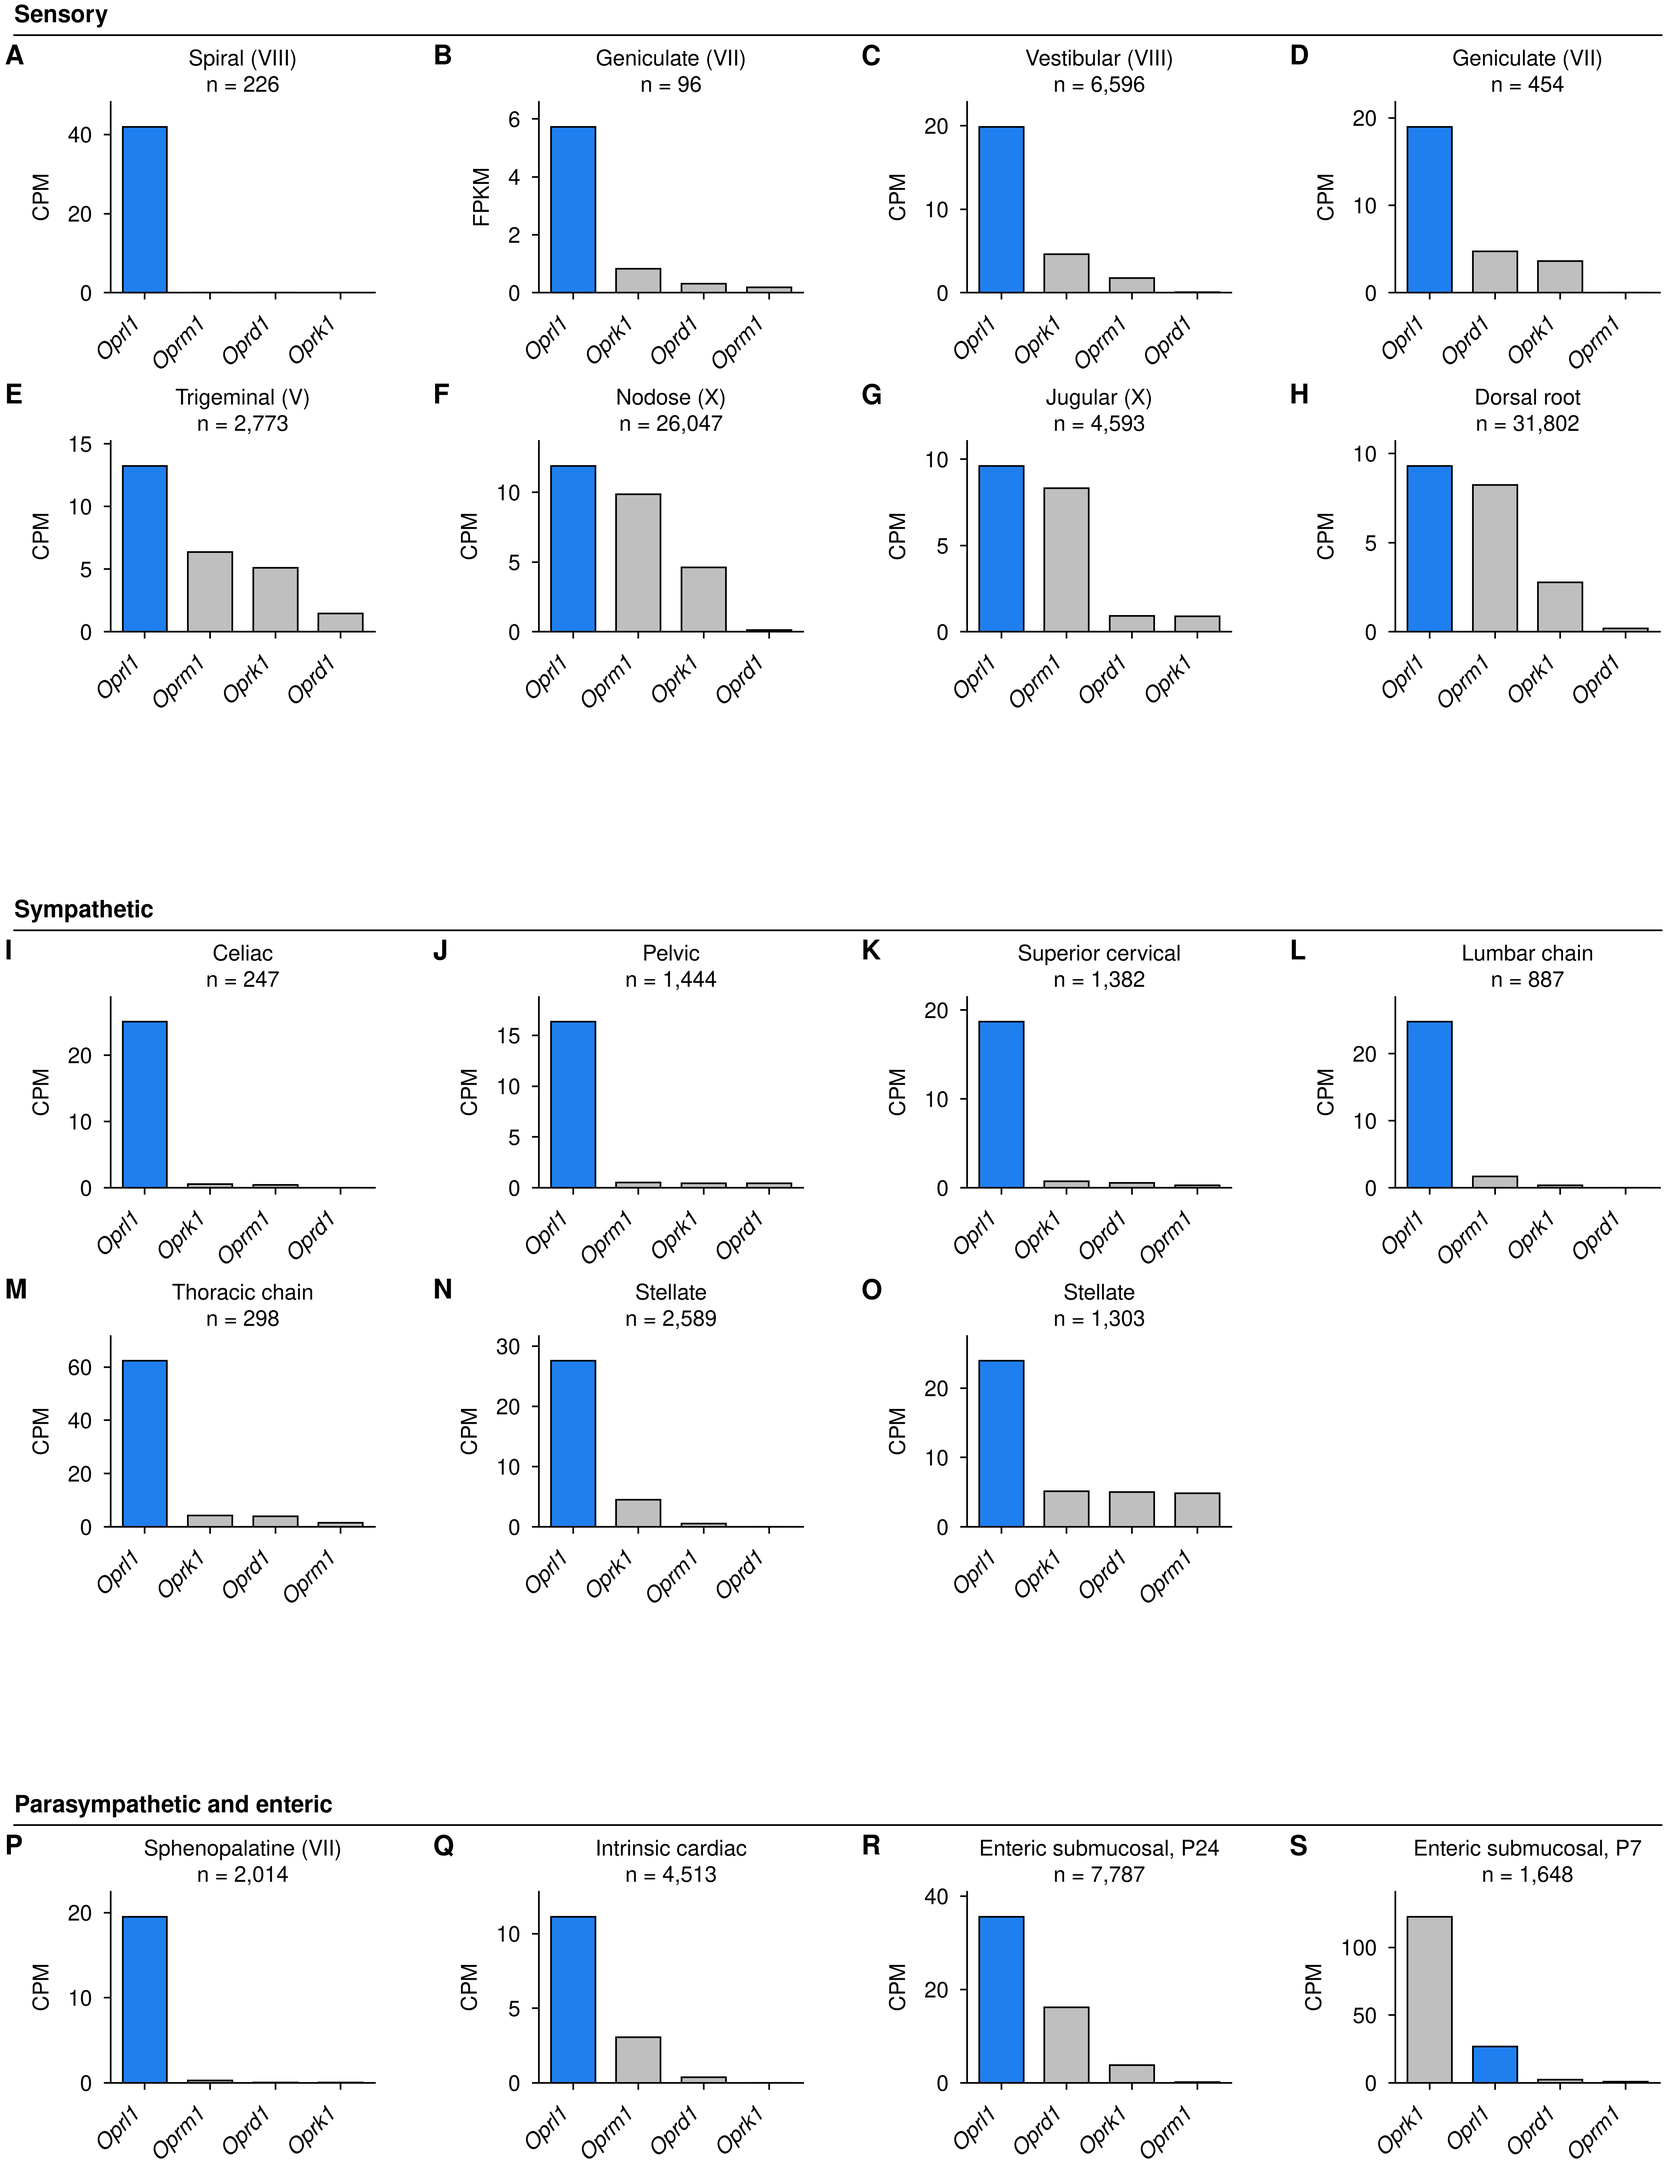
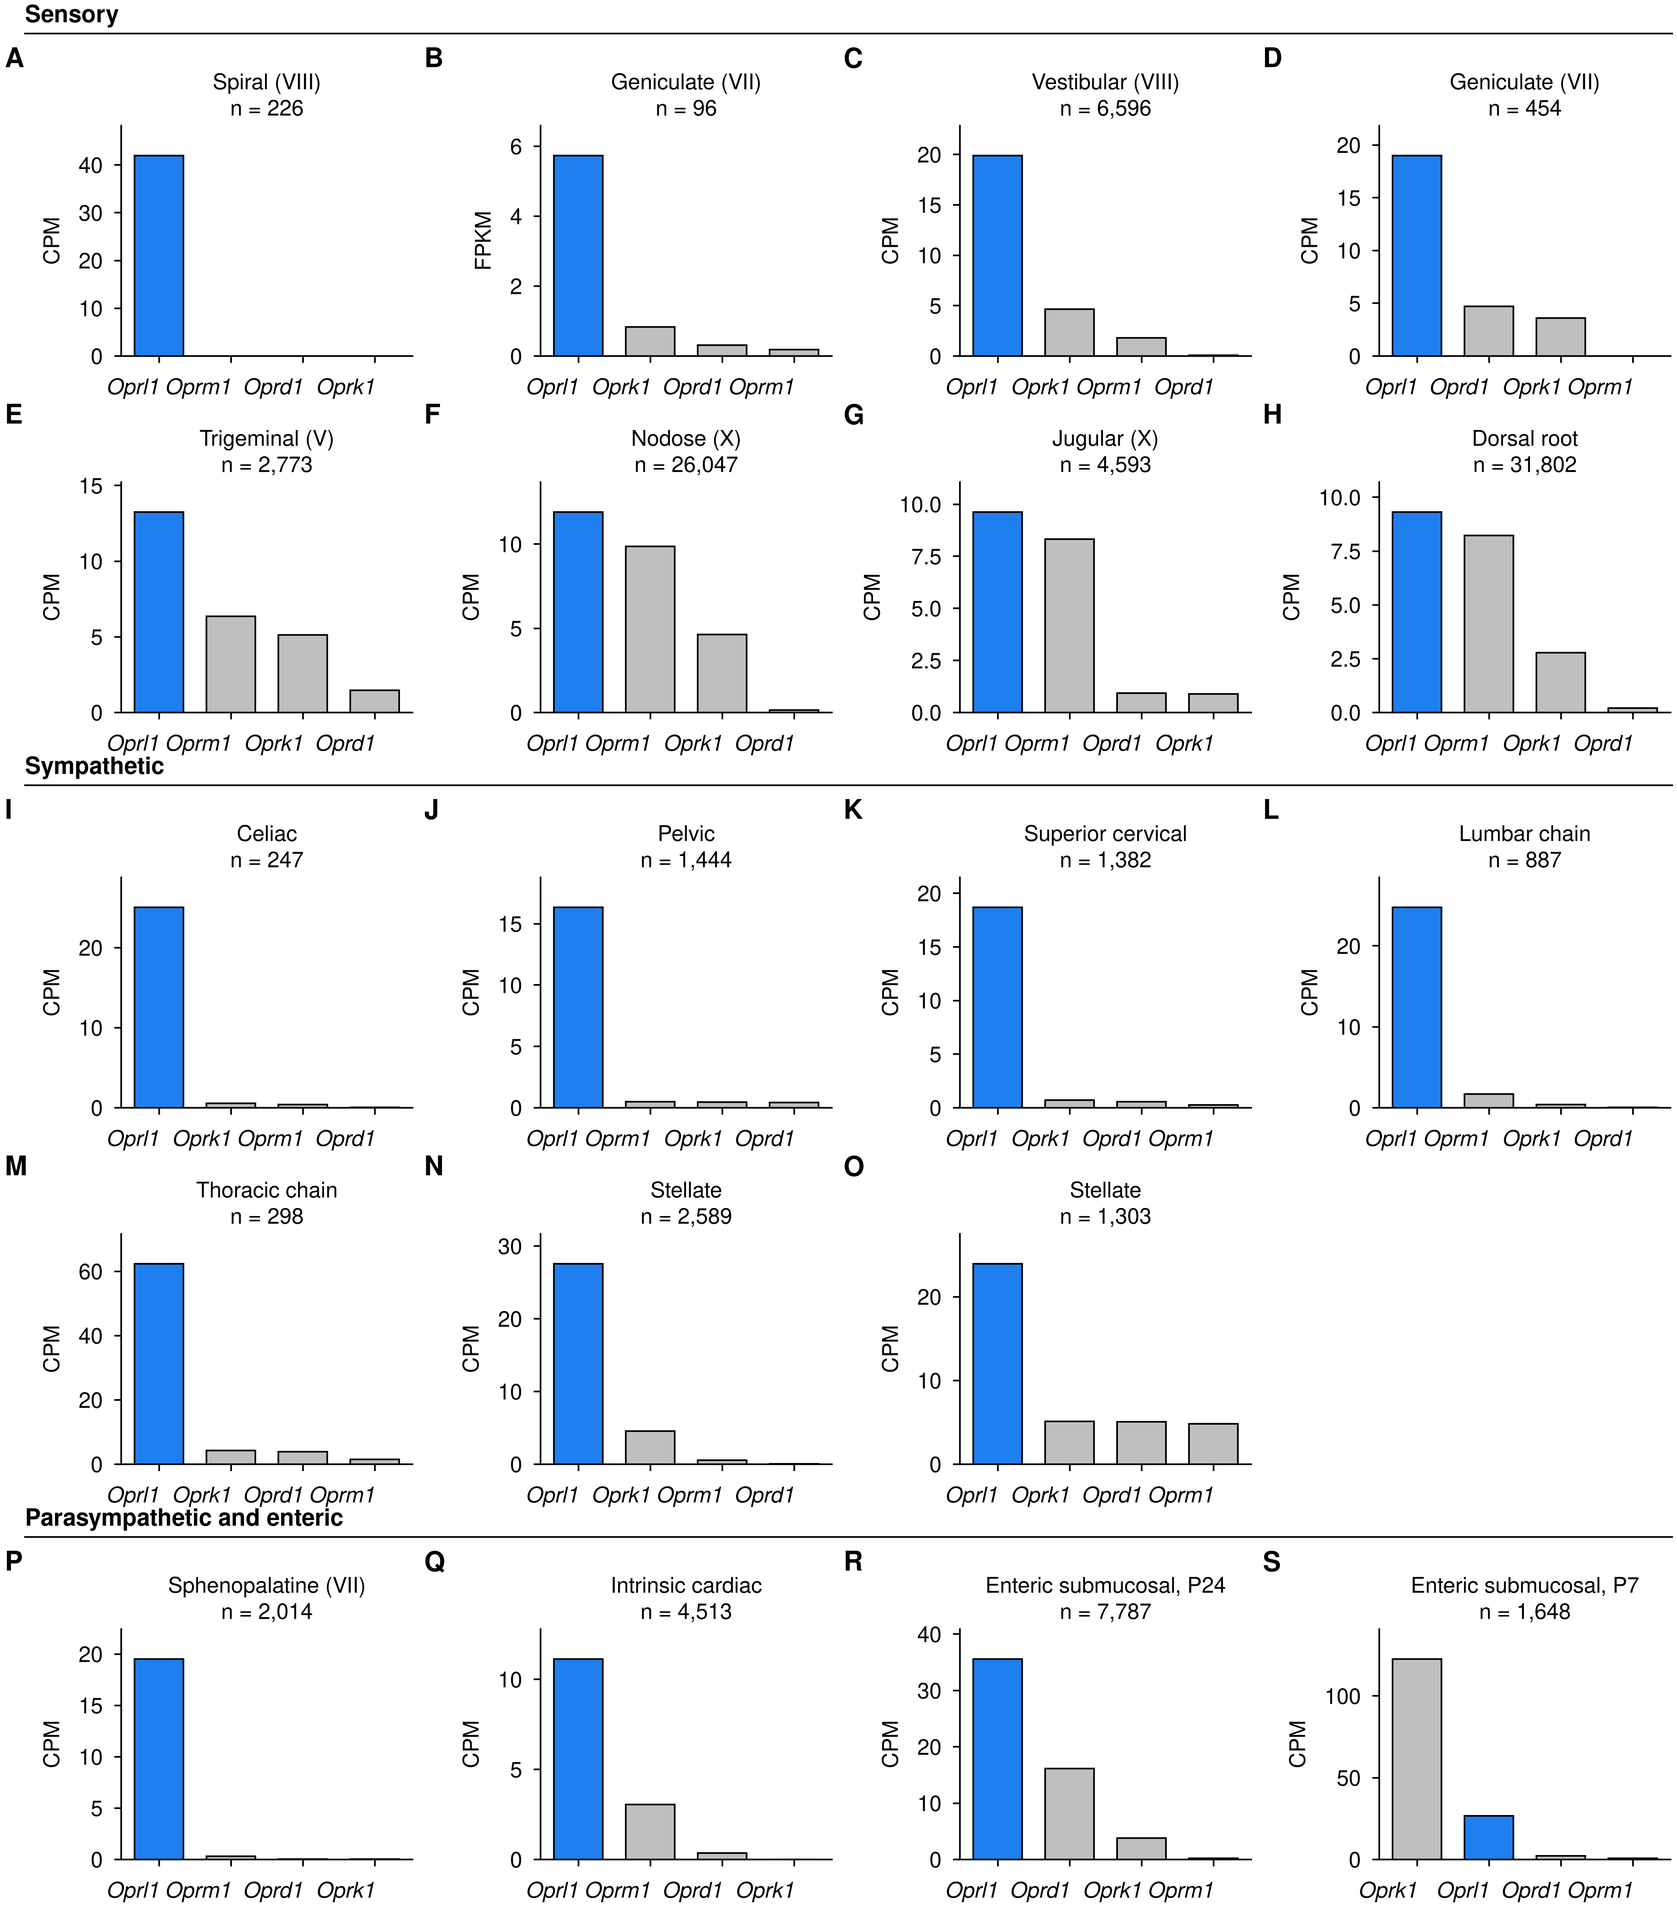
Tighten vertical spacing between divisions in Figure 1
Each division block now gets its own gridspec positioned in inches instead
of sharing one grid with spacer rows. A spacer row cannot produce a small
gap, because hspace applies on both sides of it, so the gap between blocks
was never less than twice the gap between rows.

Gene labels sit horizontally. Rotating them needs about 0.2 inches of
clearance under every row, which over five rows costs more vertical space
than the rotation saves horizontally.

Figure height falls from 227.4 mm to 199.9 mm at the same panel size, well
inside the 235 mm limit.

Claude-Session: https://claude.ai/code/session_011UyYrm5CJgnQP3S4BTTPes

diff --git a/paper/figures.py b/paper/figures.py
@@ -33,28 +33,47 @@ def figure1():
     """The four opioid receptor genes in 19 peripheral neuronal populations."""
     d = pd.read_csv(ac.RES / "receptor_levels_by_ganglion.csv")
     groups = list(dict.fromkeys(d.group))
-    block = {g: int(np.ceil((d.group == g).sum() / NCOL)) for g in groups}
+    rows = {g: int(np.ceil((d.group == g).sum() / NCOL)) for g in groups}
 
-    # A thin empty row between blocks. Without it the division rule lands on the
-    # rotated gene labels of the row above, which hang below their axes.
-    SPACER = 0.36
-    heights, start = [], {}
-    for i, g in enumerate(groups):
-        if i:
-            heights.append(SPACER)
-        start[g] = len(heights)
-        heights += [1.0] * block[g]
+    # Laid out in inches rather than by gridspec spacing. A spacer row cannot
+    # give a small gap between blocks, because hspace applies on both sides of
+    # it, so a block gap is never less than twice a row gap however thin the
+    # spacer is. Each block gets its own gridspec at an explicit position.
+    # Gene labels sit horizontally. Rotating them costs about 0.2 inches of
+    # clearance under every row, which over five rows is more vertical space
+    # than the rotation saves horizontally.
+    PANEL_H = 0.95     # axes height
+    ABOVE = 0.38       # two-line tissue title and the panel letter above it
+    BELOW = 0.14       # one line of gene labels
+    WITHIN = ABOVE + BELOW
+    HEAD = ABOVE       # top of the axes to the rule
+    BETWEEN = BELOW + 0.16 + ABOVE      # the rule and the division name between
+    TOP_PAD = ABOVE + 0.16
+    BOT_PAD = BELOW + 0.04
+
+    n_rows = sum(rows.values())
+    height = (TOP_PAD + BOT_PAD + n_rows * PANEL_H
+              + sum(r - 1 for r in rows.values()) * WITHIN
+              + (len(groups) - 1) * BETWEEN)
 
     st.set_theme()
-    fig = plt.figure(figsize=(st.W_2COL, 1.50 * sum(heights) + 0.30))
-    gs = fig.add_gridspec(len(heights), NCOL, height_ratios=heights,
-                          hspace=0.95, wspace=0.62,
-                          left=0.062, right=0.995, top=0.955, bottom=0.035)
+    fig = plt.figure(figsize=(st.W_2COL, height))
+    left, right = 0.062, 0.995
+    y = height - TOP_PAD
 
-    for g in groups:
-        sub = d[d.group == g]
-        for k, r in enumerate(sub.itertuples()):
-            ax = fig.add_subplot(gs[start[g] + k // NCOL, k % NCOL])
+    for gi, g in enumerate(groups):
+        nr = rows[g]
+        block_h = nr * PANEL_H + (nr - 1) * WITHIN
+        gs = fig.add_gridspec(nr, NCOL, left=left, right=right,
+                              top=y / height, bottom=(y - block_h) / height,
+                              hspace=WITHIN / PANEL_H, wspace=0.44)
+        fig.text(0.004, (y + HEAD + 0.02) / height, g[0].upper() + g[1:],
+                 fontsize=st.FS_LABEL, fontweight="bold", ha="left", va="bottom")
+        fig.lines.append(plt.Line2D([0.004, 0.996], [(y + HEAD) / height] * 2,
+                                    transform=fig.transFigure, color="black",
+                                    lw=0.5))
+        for k, r in enumerate(d[d.group == g].itertuples()):
+            ax = fig.add_subplot(gs[k // NCOL, k % NCOL])
             vals = [getattr(r, gene) for gene in ac.RECEPTORS]
             order = np.argsort(-np.array(vals))
             genes = [ac.RECEPTORS[i] for i in order]
@@ -62,18 +81,11 @@ def figure1():
                 ax, [vals[i] for i in order], genes, r.unit,
                 colors=[st.BAR_BLUE if gene == "Oprl1" else st.BAR_GREY
                         for gene in genes],
-                fontsize=st.FS_TICK, linewidth=0.5, rotation=45)
-            st.panel_letter(ax, r.panel, dx=-0.40, dy=1.30)
+                fontsize=st.FS_TICK, linewidth=0.5, rotation=0)
+            st.panel_letter(ax, r.panel, dx=-0.40, dy=1.34)
             tissue = r.tissue[0].upper() + r.tissue[1:]
             ax.set_title(f"{tissue}\nn = {r.n:,}", fontsize=st.FS_NOTE, pad=3)
-            if k == 0:
-                y = ax.get_position().y1 + 0.031
-                fig.text(0.004, y + 0.003, g[0].upper() + g[1:],
-                         fontsize=st.FS_LABEL, fontweight="bold", ha="left",
-                         va="bottom")
-                fig.lines.append(plt.Line2D(
-                    [0.004, 0.996], [y] * 2, transform=fig.transFigure,
-                    color="black", lw=0.5))
+        y -= block_h + BETWEEN
     return fig
 
 
